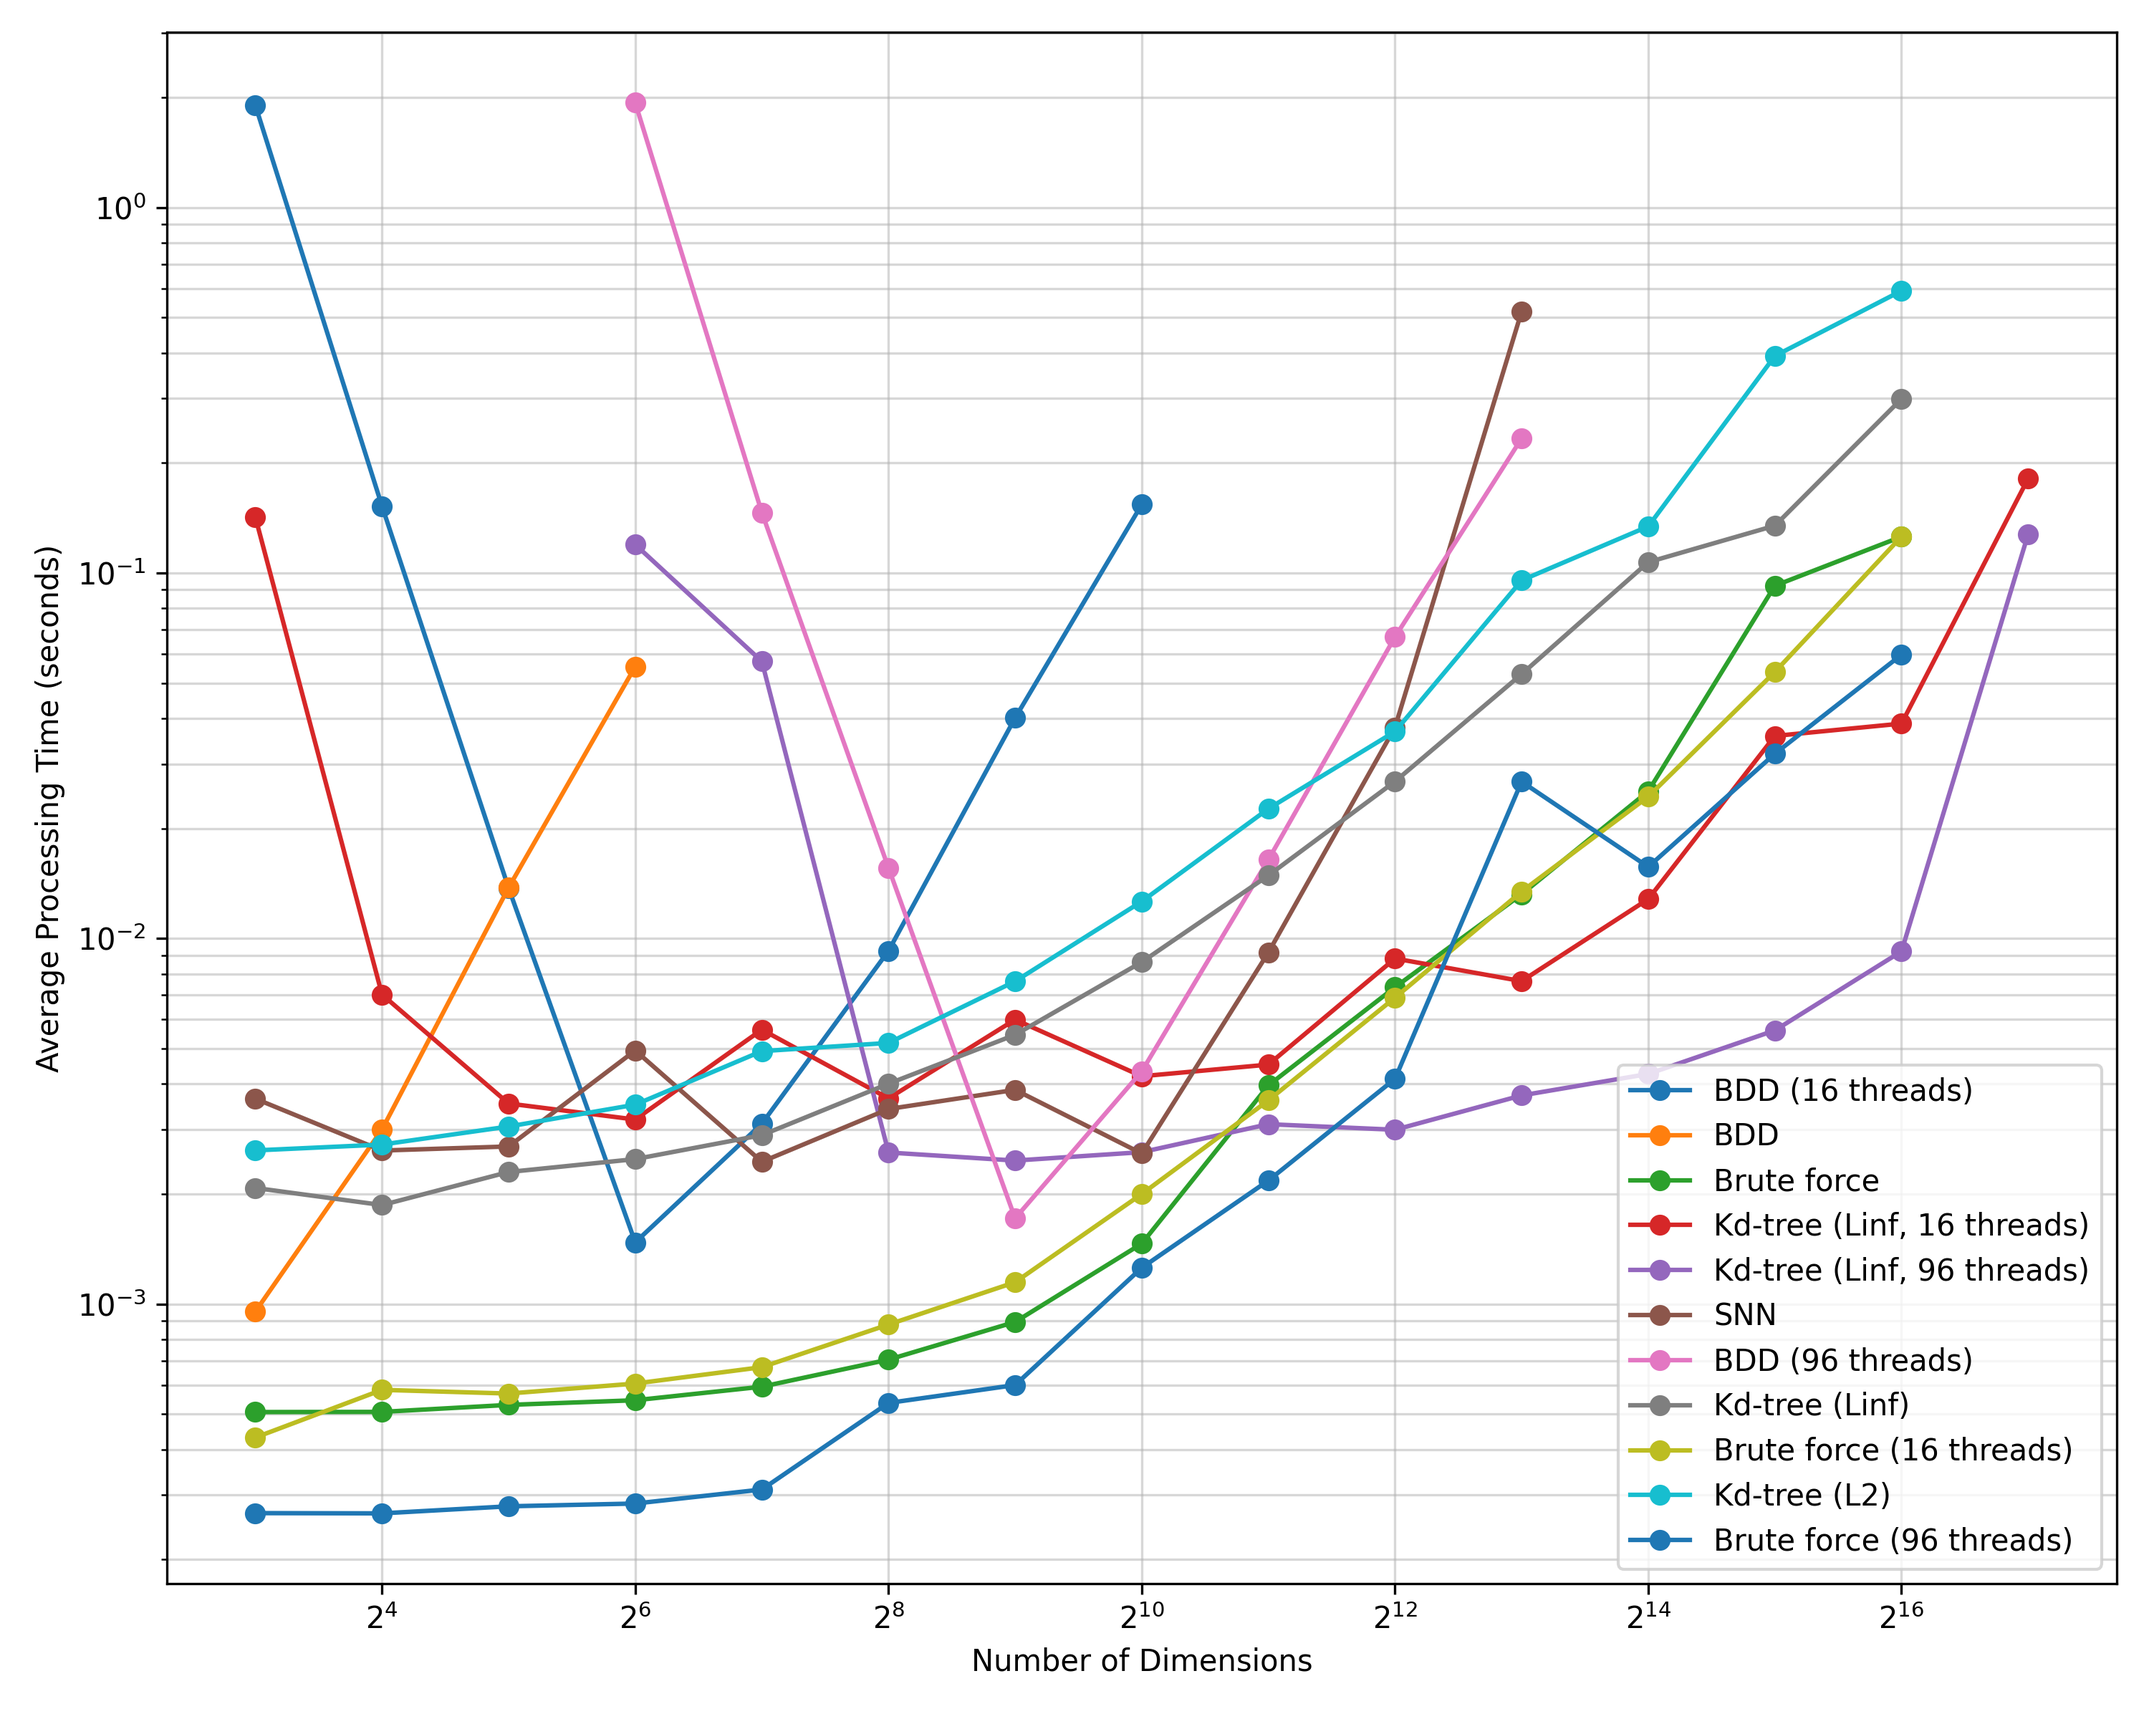
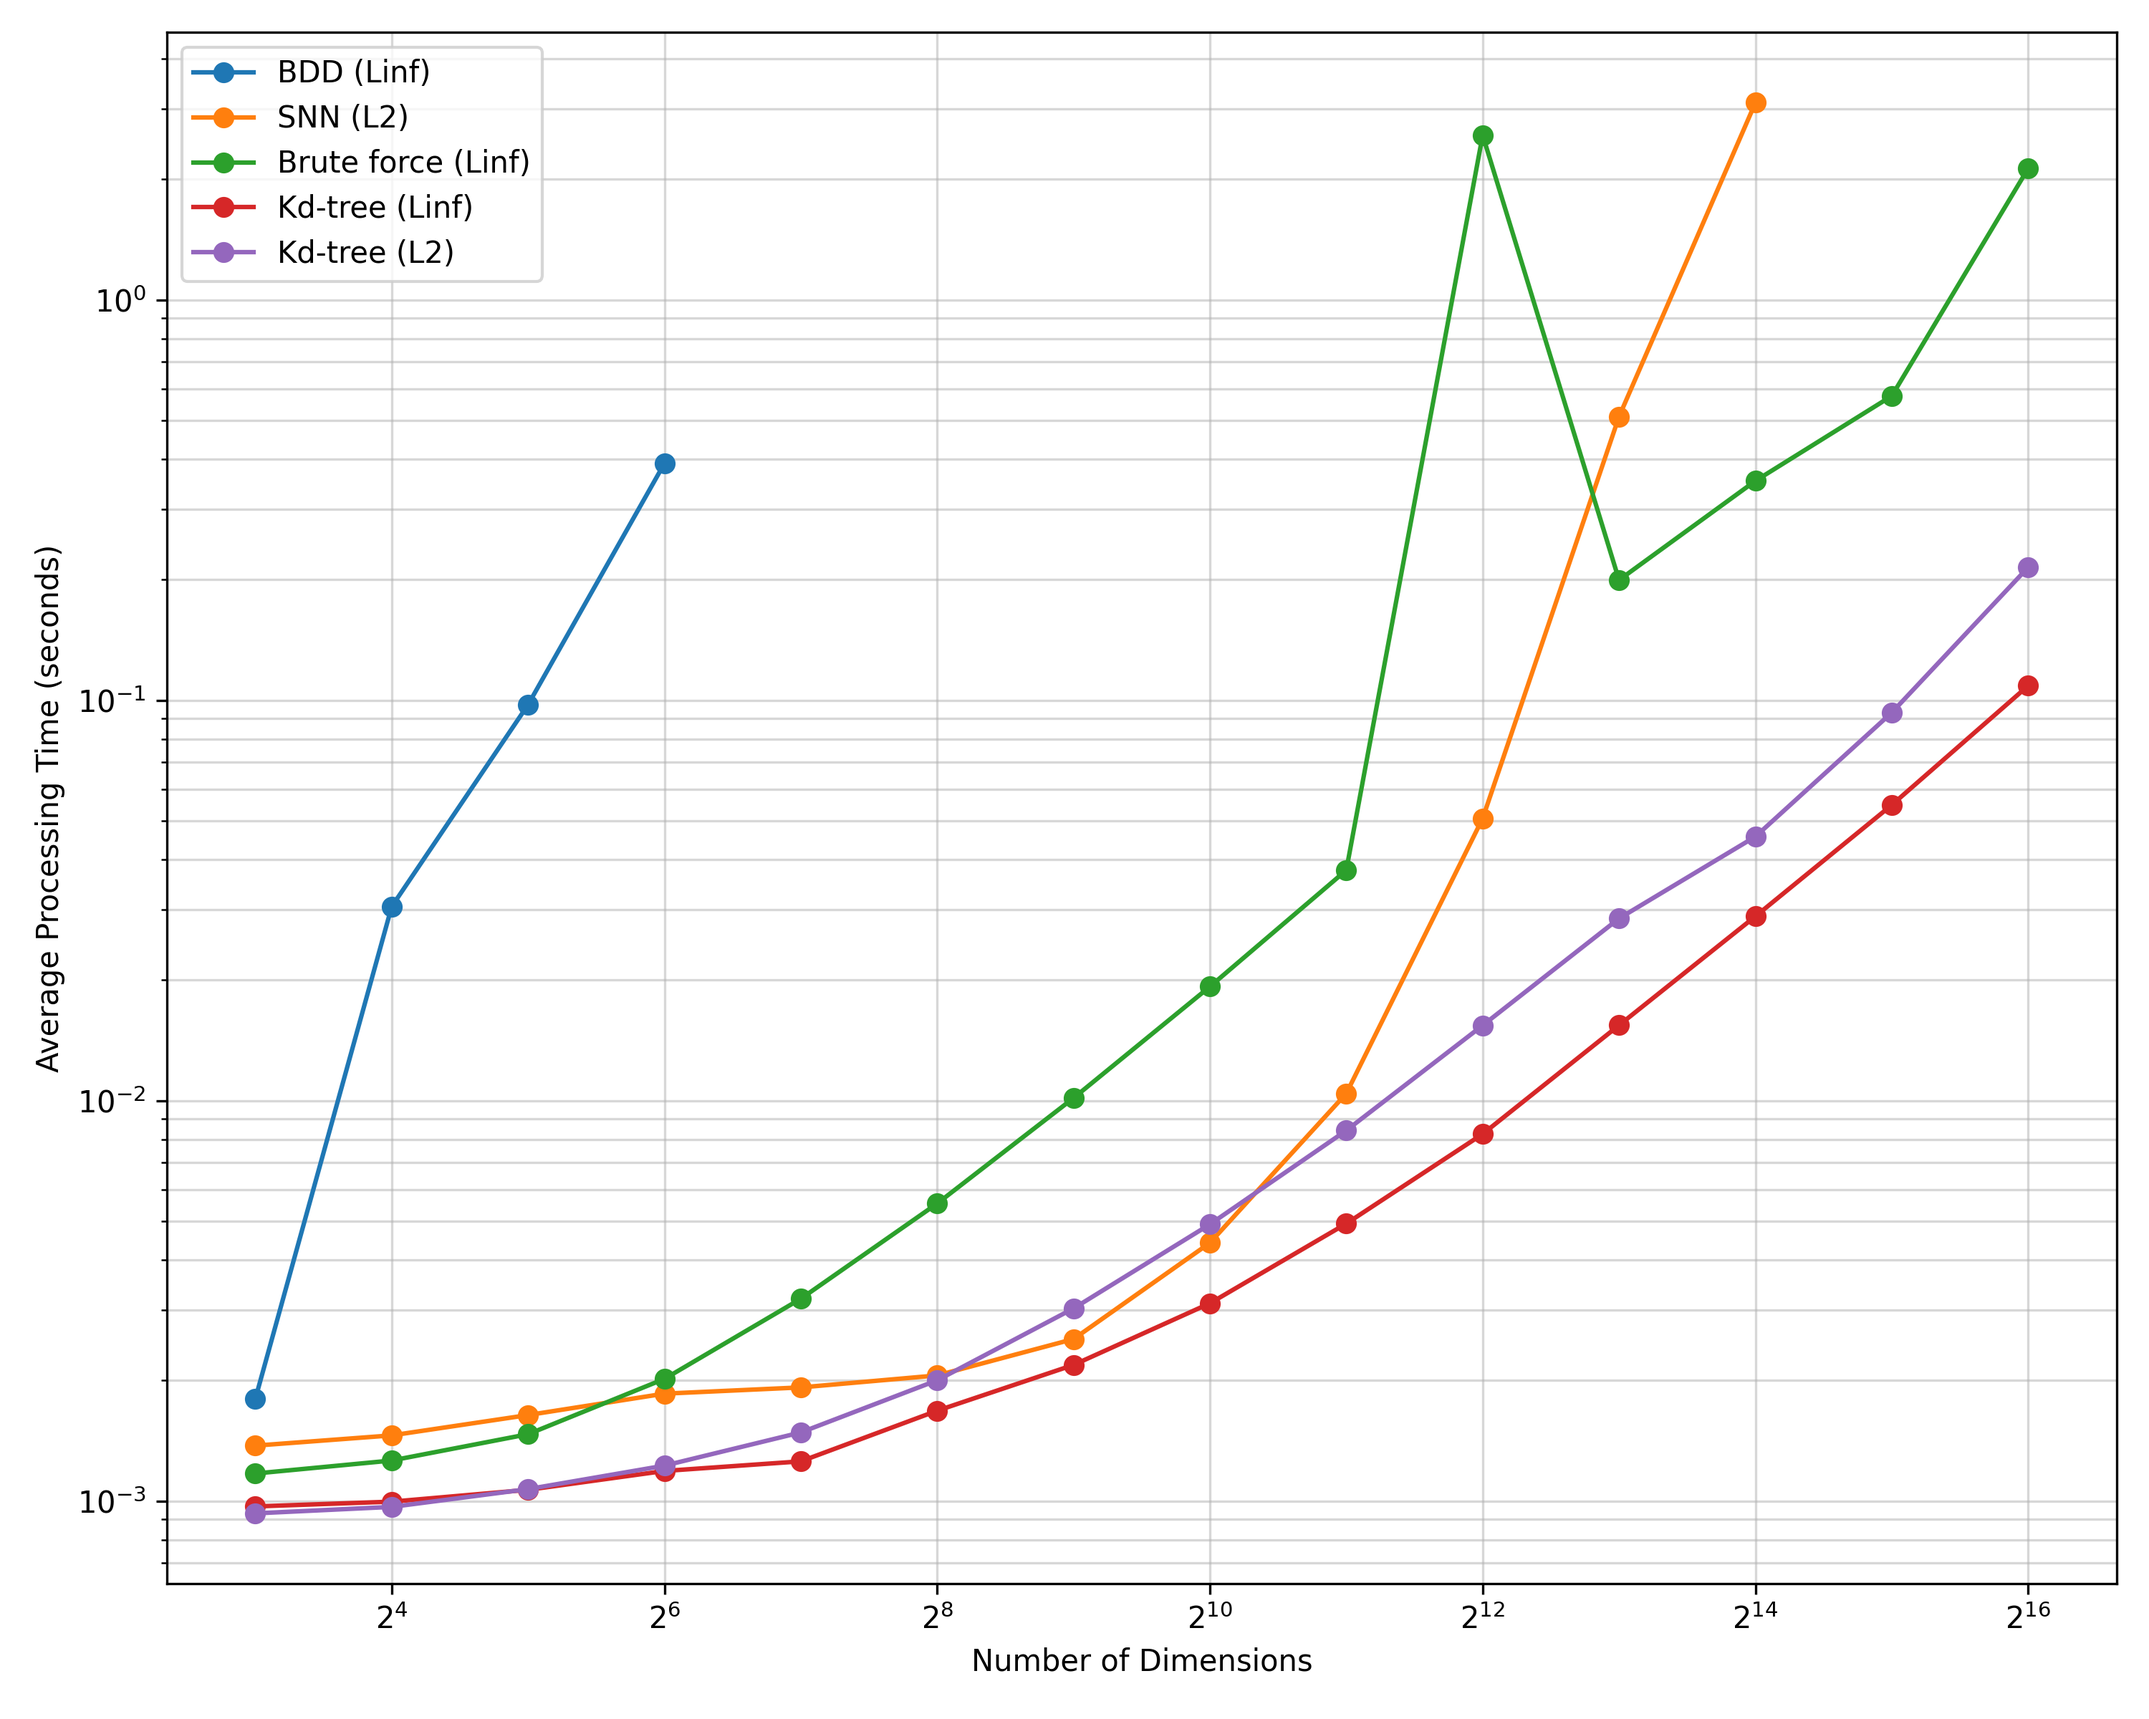
preliminary updated dimcomp plot

diff --git a/results/dimcomp/plot.py b/results/dimcomp/plot.py
@@ -9,15 +9,16 @@ def extract_dim_from_filename(filename):
 def get_average_time(json_path):
     with open(json_path, 'r') as f:
         data = json.load(f)
-        timings = data['timings']
-        if type(timings[0]) == str:
-            timings = list(map(float,timings))
-        return np.mean(timings)
+        return data['avg_time']
+        #timings = data['timings']
+        #if type(timings[0]) == str:
+        #    timings = list(map(float,timings))
+        #return np.mean(timings)
 
 results_dir = 'results'
 methods = os.listdir(results_dir)
 
-plt.figure(figsize=(5, 4))
+plt.figure(figsize=(10, 8))
 
 for method in methods:
     method_dir = os.path.join(results_dir, method)
@@ -27,30 +28,22 @@ for method in methods:
     avg_times = []
     
     for json_file in json_files:
-        print("PLOTTING ONLY LOWDEC FILES")
-        if 'lowdec' in json_file and not "bf-1t" in json_file:
-            dim = extract_dim_from_filename(json_file)
-            avg_time = get_average_time(os.path.join(method_dir, json_file))
-            
-            dimensions.append(dim)
-            avg_times.append(avg_time)
+        dim = extract_dim_from_filename(json_file)
+        avg_time = get_average_time(os.path.join(method_dir, json_file))
+        
+        dimensions.append(dim)
+        avg_times.append(avg_time)
     
     sorted_indices = np.argsort(dimensions)
     dimensions = np.array(dimensions)[sorted_indices]
     avg_times = np.array(avg_times)[sorted_indices]
     
     method_displaynames = {
-        "kdtree-1t": "Kd-tree (Linf)",
-        "kdtree-16t": "Kd-tree (Linf, 16 threads)",
-        "kdtree-96t": "Kd-tree (Linf, 96 threads)",
-        "kdtree-l2": "Kd-tree (L2)",
-        "bdd-1t": "BDD",
-        "bdd-16t": "BDD (16 threads)",
-        "bdd-96t": "BDD (96 threads)",
-        "snn": "SNN",
-        "bf-1t": "Brute force",
-        "bf-16t": "Brute force (16 threads)",
-        "bf-96t": "Brute force (96 threads)",
+        "kdtree": "Kd-tree (Linf)",
+        "l2-kdtree": "Kd-tree (L2)",
+        "bdd": "BDD (Linf)",
+        "l2-snn": "SNN (L2)",
+        "bf": "Brute force (Linf)",
     }
     plt.plot(dimensions, avg_times, marker='o', label=method_displaynames[method])
 
